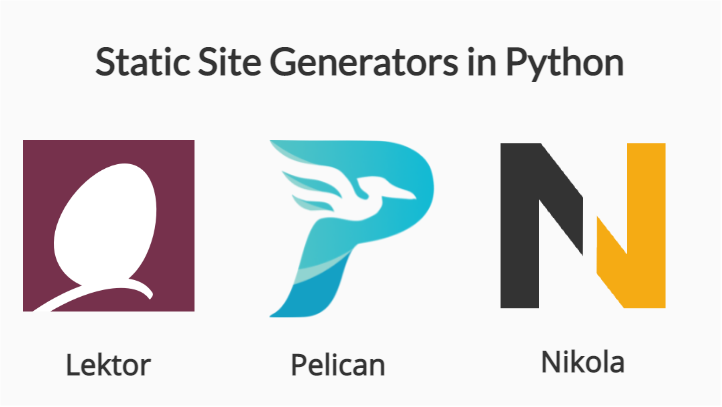
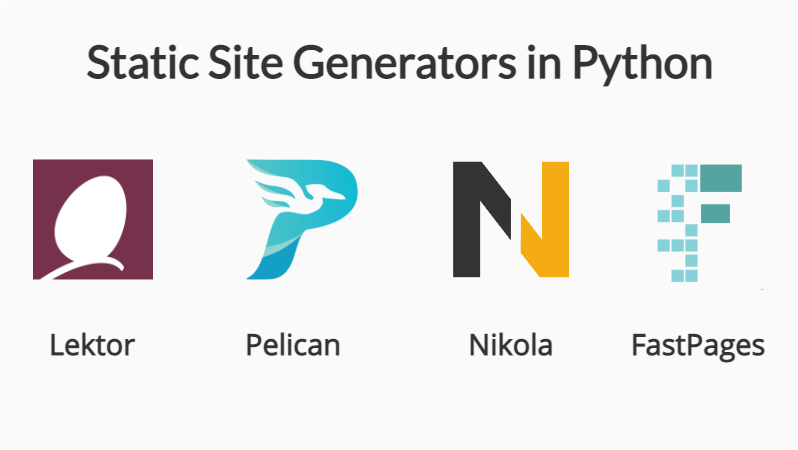
Update Jupyter Publishing

diff --git a/blog/2021-jupyter-publish.md b/blog/2021-jupyter-publish.md
@@ -281,7 +281,7 @@ interactive plots are necessary, this option is not suitable.
 
 ## Static Site Generator Integration
 
-[![Static Site Generators]({static}images/jupyter-publishing/static-site-generators-thumbnail.png){: .narrow .b-lazy width=722 data-src=/blog/images/jupyter-publishing/static-site-generators.png }](/blog/images/jupyter-publishing/static-site-generators.png)
+[![Static Site Generators]({static}images/jupyter-publishing/static-site-generators-thumbnail.png){: .narrow .b-lazy width=798 data-src=/blog/images/jupyter-publishing/static-site-generators.png }](/blog/images/jupyter-publishing/static-site-generators.png)
 
 Nowadays, there is an increasing trend in popularity for Jamstack tools, i.e.
 Static Site Generators. That is why there are plenty of options available in
